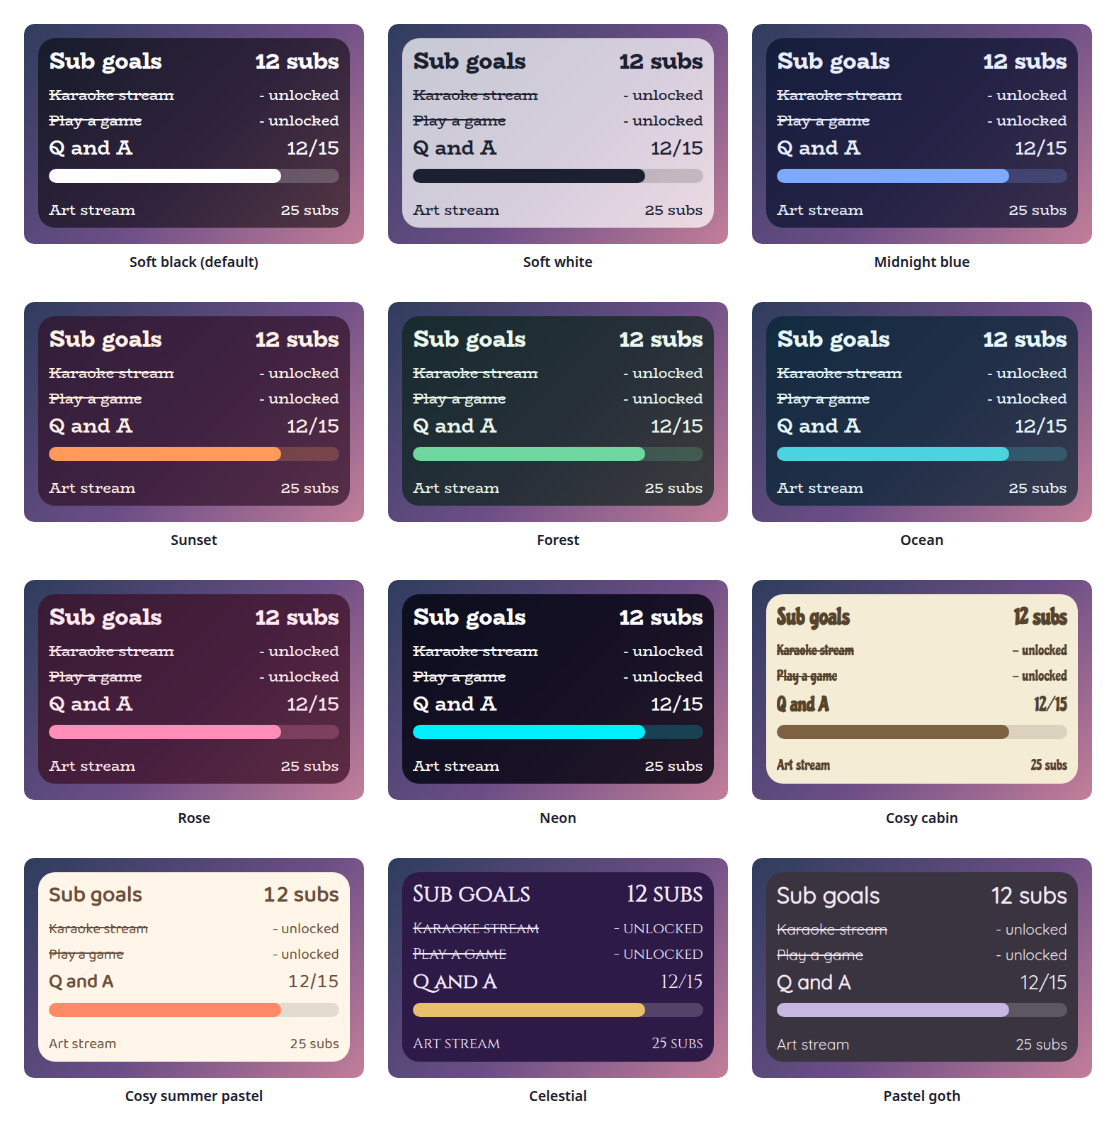
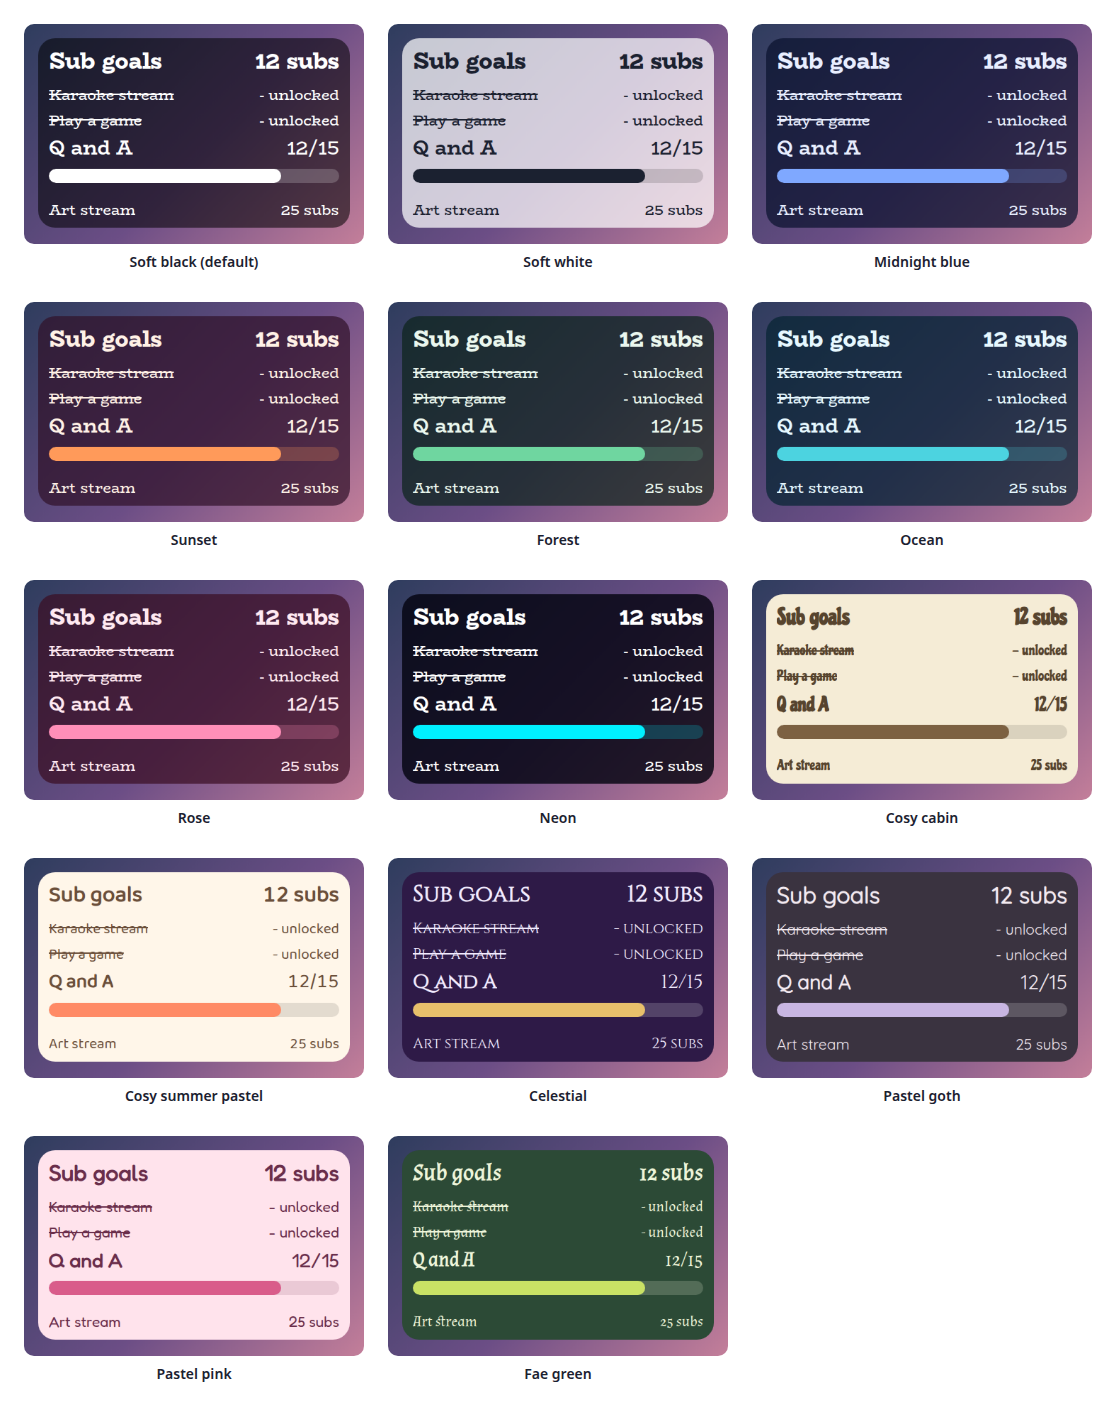
Add the Pastel pink and Fae green presets, and let wording be blank
Two more style presets join the shared set, so there are now fourteen. Pastel pink is a soft blush with rose, in Fredoka, whose rounded letters suit it, and Fae green is a mossy green with a firefly lime accent, in Almendra, a storybook serif. They are identical in every overlay in this set, and the gallery in the README now shows all fourteen.

The unlocked, done, paused and thank-you texts could not be left blank, because StreamElements sends an empty string for a cleared field and the widget turned that back into the default. A blank now stays blank.

diff --git a/test/test-widget.js b/test/test-widget.js
@@ -859,11 +859,17 @@ function ok(cond, msg) { if (cond) { pass++; console.log("  PASS " + msg); } els
   ok(elements["incentive-header"].hidden === true, "the heading row disappears when both are off");
 
 
-  // ---- style presets: the same twelve, with the same colours, in every overlay
+  console.log("\n[blank wording stays blank]");
+  load({ unlockedText: "", pausedText: "", doneText: "" }); await wait(5);
+  boss("!incentive add 1 karaoke"); sub({ amount: 1 });
+  ok(live()[0].count === "", "a blank unlocked text shows nothing instead of the default (" + live()[0].count + ")");
+  boss("!incentive stop"); ok(elements["incentive-paused"].textContent === "", "a blank paused note shows nothing");
+
+  // ---- style presets: the same fourteen, with the same colours, in every overlay
   console.log("\n[style presets]");
-  const EXPECT = {"glass": {"text": "#FFFFFF", "accent": "#FFFFFF", "panel": "rgba(0, 0, 0, 0.55)", "font": "BioRhyme"}, "frost": {"text": "#1B2130", "accent": "#1B2130", "panel": "rgba(255, 255, 255, 0.72)", "font": "BioRhyme"}, "midnight": {"text": "#E8EEFF", "accent": "#7FA8FF", "panel": "rgba(10, 18, 46, 0.72)", "font": "BioRhyme"}, "sunset": {"text": "#FFF1E6", "accent": "#FF9A5A", "panel": "rgba(48, 18, 42, 0.72)", "font": "BioRhyme"}, "forest": {"text": "#EAF7EE", "accent": "#6FD6A0", "panel": "rgba(12, 36, 28, 0.72)", "font": "BioRhyme"}, "ocean": {"text": "#E6F8FF", "accent": "#4CD3E0", "panel": "rgba(6, 36, 50, 0.72)", "font": "BioRhyme"}, "rose": {"text": "#FFE9F1", "accent": "#FF8FB8", "panel": "rgba(58, 14, 34, 0.72)", "font": "BioRhyme"}, "neon": {"text": "#FFFFFF", "accent": "#00F0FF", "panel": "rgba(4, 4, 16, 0.82)", "font": "BioRhyme"}, "cosycabin": {"text": "#57442E", "accent": "#7C6142", "panel": "#F5ECD6", "font": "Chicle"}, "pastel": {"text": "#6B4F3A", "accent": "#FF8A65", "panel": "#FFF6E9", "font": "Baloo 2"}, "celestial": {"text": "#F3ECFF", "accent": "#E8C06B", "panel": "#2E1A47", "font": "Cinzel"}, "pastelgoth": {"text": "#F2E9F0", "accent": "#C8B6E2", "panel": "#3A3340", "font": "Quicksand"}};
-  const LABELS = {"glass": "Soft black (default)", "frost": "Soft white", "midnight": "Midnight blue", "sunset": "Sunset", "forest": "Forest", "ocean": "Ocean", "rose": "Rose", "neon": "Neon", "cosycabin": "Cosy cabin", "pastel": "Cosy summer pastel", "celestial": "Celestial", "pastelgoth": "Pastel goth", "custom": "Custom (use the colours below)"};
-  ok(JSON.stringify(Object.keys(fields.themePreset.options)) === JSON.stringify(Object.keys(LABELS)) && Object.keys(LABELS).length === 13, "the dropdown offers the twelve shared presets and Custom, in the shared order");
+  const EXPECT = {"glass": {"text": "#FFFFFF", "accent": "#FFFFFF", "panel": "rgba(0, 0, 0, 0.55)", "font": "BioRhyme"}, "frost": {"text": "#1B2130", "accent": "#1B2130", "panel": "rgba(255, 255, 255, 0.72)", "font": "BioRhyme"}, "midnight": {"text": "#E8EEFF", "accent": "#7FA8FF", "panel": "rgba(10, 18, 46, 0.72)", "font": "BioRhyme"}, "sunset": {"text": "#FFF1E6", "accent": "#FF9A5A", "panel": "rgba(48, 18, 42, 0.72)", "font": "BioRhyme"}, "forest": {"text": "#EAF7EE", "accent": "#6FD6A0", "panel": "rgba(12, 36, 28, 0.72)", "font": "BioRhyme"}, "ocean": {"text": "#E6F8FF", "accent": "#4CD3E0", "panel": "rgba(6, 36, 50, 0.72)", "font": "BioRhyme"}, "rose": {"text": "#FFE9F1", "accent": "#FF8FB8", "panel": "rgba(58, 14, 34, 0.72)", "font": "BioRhyme"}, "neon": {"text": "#FFFFFF", "accent": "#00F0FF", "panel": "rgba(4, 4, 16, 0.82)", "font": "BioRhyme"}, "cosycabin": {"text": "#57442E", "accent": "#7C6142", "panel": "#F5ECD6", "font": "Chicle"}, "pastel": {"text": "#6B4F3A", "accent": "#FF8A65", "panel": "#FFF6E9", "font": "Baloo 2"}, "celestial": {"text": "#F3ECFF", "accent": "#E8C06B", "panel": "#2E1A47", "font": "Cinzel"}, "pastelgoth": {"text": "#F2E9F0", "accent": "#C8B6E2", "panel": "#3A3340", "font": "Quicksand"}, "pastelpink": {"text": "#6A2E4B", "accent": "#D95C8A", "panel": "#FFE3EC", "font": "Fredoka"}, "faegreen": {"text": "#EEF5DA", "accent": "#C9E265", "panel": "#2C4A36", "font": "Almendra"}};
+  const LABELS = {"glass": "Soft black (default)", "frost": "Soft white", "midnight": "Midnight blue", "sunset": "Sunset", "forest": "Forest", "ocean": "Ocean", "rose": "Rose", "neon": "Neon", "cosycabin": "Cosy cabin", "pastel": "Cosy summer pastel", "celestial": "Celestial", "pastelgoth": "Pastel goth", "pastelpink": "Pastel pink", "faegreen": "Fae green", "custom": "Custom (use the colours below)"};
+  ok(JSON.stringify(Object.keys(fields.themePreset.options)) === JSON.stringify(Object.keys(LABELS)) && Object.keys(LABELS).length === 15, "the dropdown offers the fourteen shared presets and Custom, in the shared order");
   ok(Object.keys(LABELS).every(k => fields.themePreset.options[k] === LABELS[k]), "with the shared labels");
   ok(fields.themePreset.value === "glass", "and Soft black is the default");
   for (const key of Object.keys(EXPECT)) {

diff --git a/widget/widget.js b/widget/widget.js
@@ -62,6 +62,12 @@
     return (v === undefined || v === null || v === "") ? dflt : String(v);
   }
 
+  // For wording where an empty field is a real choice. StreamElements sends "" for a cleared
+  // field, which str() would turn back into the default.
+  function txt(v, dflt) {
+    return (v === undefined || v === null) ? dflt : String(v);
+  }
+
   function clamp(n, lo, hi) { return Math.min(hi, Math.max(lo, n)); }
   // A command word is a single lower-case token, so "Add" and " add " both work.
   function word(v, dflt) { return str(v, dflt).toLowerCase().trim().split(/\s+/)[0]; }
@@ -105,9 +111,9 @@
       showTotal: bool(f.showTotal, true),
       unitSingular: str(f.unitSingular, "sub"),
       unitPlural: str(f.unitPlural, "subs"),
-      unlockedText: str(f.unlockedText, "Unlocked!"),
-      doneText: str(f.doneText, "- unlocked"),
-      pausedText: str(f.pausedText, "(paused)"),
+      unlockedText: txt(f.unlockedText, "Unlocked!"),
+      doneText: txt(f.doneText, "- unlocked"),
+      pausedText: txt(f.pausedText, "(paused)"),
 
       look: {
         panel: str(f.colorPanel, "#000000"),
@@ -152,7 +158,7 @@
         fillSeconds: clamp(num(f.fillSeconds, 0.9), 0, 10)
       },
       showThanks: bool(f.showThanks, true),
-      thanksText: str(f.thanksText, "Thank you for your generosity! <3"),
+      thanksText: txt(f.thanksText, "Thank you for your generosity! <3"),
       thanksBar: bool(f.thanksBar, false),
       sounds: {
         enabled: bool(f.soundsEnabled, true),
@@ -202,7 +208,7 @@
 
   var ALIGN = { top: "flex-start", middle: "center", bottom: "flex-end" };
 
-  /* Style presets. The same twelve, with the same colours, in every overlay in this
+  /* Style presets. The same fourteen, with the same colours, in every overlay in this
      set, generated from one table so they cannot drift apart, so any preset looks
      like one family across a whole stream. The default, Soft black, is a see-through
      black panel with white text. Custom uses the colour pickers instead. */
@@ -218,7 +224,9 @@
     cosycabin: { panel: "#F5ECD6", text: "#57442E", accent: "#7C6142", track: "rgba(0, 0, 0, 0.11)", glow: "#7C6142", font: "Chicle" },
     pastel: { panel: "#FFF6E9", text: "#6B4F3A", accent: "#FF8A65", track: "rgba(0, 0, 0, 0.11)", glow: "#FF8A65", font: "Baloo 2" },
     celestial: { panel: "#2E1A47", text: "#F3ECFF", accent: "#E8C06B", track: "rgba(255, 255, 255, 0.18)", glow: "#E8C06B", font: "Cinzel" },
-    pastelgoth: { panel: "#3A3340", text: "#F2E9F0", accent: "#C8B6E2", track: "rgba(255, 255, 255, 0.18)", glow: "#C8B6E2", font: "Quicksand" }
+    pastelgoth: { panel: "#3A3340", text: "#F2E9F0", accent: "#C8B6E2", track: "rgba(255, 255, 255, 0.18)", glow: "#C8B6E2", font: "Quicksand" },
+    pastelpink: { panel: "#FFE3EC", text: "#6A2E4B", accent: "#D95C8A", track: "rgba(106, 46, 75, 0.14)", glow: "#D95C8A", font: "Fredoka" },
+    faegreen: { panel: "#2C4A36", text: "#EEF5DA", accent: "#C9E265", track: "rgba(238, 245, 218, 0.2)", glow: "#C9E265", font: "Almendra" }
   };
 
   // The colours the panel is actually drawn with: a preset's own, or the pickers'

diff --git a/dev/harness.js b/dev/harness.js
@@ -84,7 +84,7 @@
     var def = fieldDefs.themePreset;
     host.innerHTML =
       (def ? '<div class="row"><label for="look-preset">Style preset</label> <select id="look-preset"></select></div>' +
-        '<p class="hint">The same twelve presets are in every overlay in this set. Custom uses the colour settings below.</p>' : '') +
+        '<p class="hint">The same fourteen presets are in every overlay in this set. Custom uses the colour settings below.</p>' : '') +
       '<div class="row"><button id="export-download" class="go">Download fields.json</button>' +
       '<button id="export-copy" class="alt">Copy fields.json</button></div>' +
       '<p class="hint">Your current settings as a fields.json for StreamElements. Paste it into the Fields tab of a new custom widget and it starts out as you see it here.</p>' +

diff --git a/README.md b/README.md
@@ -39,9 +39,9 @@ The overlay sits over your scene with a see-through panel. These are all taken f
 
 ## Style presets
 
-One setting picks the look. The same twelve presets, with the same colours, are in every overlay in this set, so overlays from this set match whichever you choose. This is how each one looks in this overlay.
+One setting picks the look. The same fourteen presets, with the same colours, are in every overlay in this set, so overlays from this set match whichever you choose. This is how each one looks in this overlay.
 
-<p><img src="docs/presets.png" alt="A grid of this overlay in each of the twelve style presets: Soft black, Soft white, Midnight blue, Sunset, Forest, Ocean, Rose, Neon, Cosy cabin, Cosy summer pastel, Celestial and Pastel goth" width="760"></p>
+<p><img src="docs/presets.png" alt="A grid of this overlay in each of the fourteen style presets: Soft black, Soft white, Midnight blue, Sunset, Forest, Ocean, Rose, Neon, Cosy cabin, Cosy summer pastel, Celestial, Pastel goth, Pastel pink and Fae green" width="760"></p>
 
 | Preset | Look |
 | --- | --- |
@@ -57,6 +57,8 @@ One setting picks the look. The same twelve presets, with the same colours, are 
 | Cosy summer pastel | Warm cream and coral, in Baloo 2. |
 | Celestial | Deep purple and gold, in Cinzel. |
 | Pastel goth | Charcoal and lilac, in Quicksand. |
+| Pastel pink | Soft blush pink with rose, in Fredoka. |
+| Fae green | Mossy green with a firefly lime accent, in Almendra. |
 
 Choose **Custom** to use the colour pickers and font instead. They are ignored while a preset is chosen.
 
@@ -119,7 +121,7 @@ Every setting has a plain label in StreamElements, grouped as follows.
 | Goals | How many show at once, their order, whether reached goals stay, and the celebration time. |
 | Heading | The title and sub count: text, size, boldness, colour and an optional font of their own. |
 | Wording | The words for sub and subs, the celebrating text, the reached text and the paused note. |
-| Panel | The style preset (one of twelve, or Custom) and, for Custom, the colour and opacity, corner roundness, padding, an optional outline and shadow, and vertical position. |
+| Panel | The style preset (one of fourteen, or Custom) and, for Custom, the colour and opacity, corner roundness, padding, an optional outline and shadow, and vertical position. |
 | Text | Font, size, line spacing, and the colours and boldness of the current, waiting and reached goals. |
 | Progress bars | Bar colours, thickness, glow and spacing. |
 | Thank you | The message, its size, boldness and colour, and an optional bar. |
@@ -201,7 +203,7 @@ The JavaScript is plain ES5, so it can be pasted straight into the StreamElement
 
 ## Related overlays
 
-These overlays share the same default look and the same twelve style presets, so they sit together on one stream.
+These overlays share the same default look and the same fourteen style presets, so they sit together on one stream.
 
 - [Subathon Overlay](https://github.com/jordan-lee-code/subathon-overlay): a subathon clock with a cap, power-ups and sub goals.
 - [Spin Wheel Overlay](https://github.com/jordan-lee-code/spin-wheel-overlay): a wheel for giveaways, raffles and forfeits.

diff --git a/CONTRIBUTING.md b/CONTRIBUTING.md
@@ -22,7 +22,7 @@ The dev harness stands in for StreamElements, so you can try changes without goi
 4. When you add a setting, add it to `widget/fields.json` and read it in `readConfig` in `widget/widget.js`. A test fails if a field is never read.
 5. Add or update tests in `test/test-widget.js`, and make sure `npm test` passes.
 6. If behaviour changes, update the README.
-7. The twelve style presets are shared by every overlay in this set, with identical colours, so they look cohesive on one stream. They live in the `PRESETS` table in `widget/widget.js`, and a test checks each against the shared values. If you change a palette, make the same change in the other overlays and regenerate the gallery in `docs/presets.png`.
+7. The fourteen style presets are shared by every overlay in this set, with identical colours, so they look cohesive on one stream. They live in the `PRESETS` table in `widget/widget.js`, and a test checks each against the shared values. If you change a palette, make the same change in the other overlays and regenerate the gallery in `docs/presets.png`.
 
 ## Reporting a bug
 
